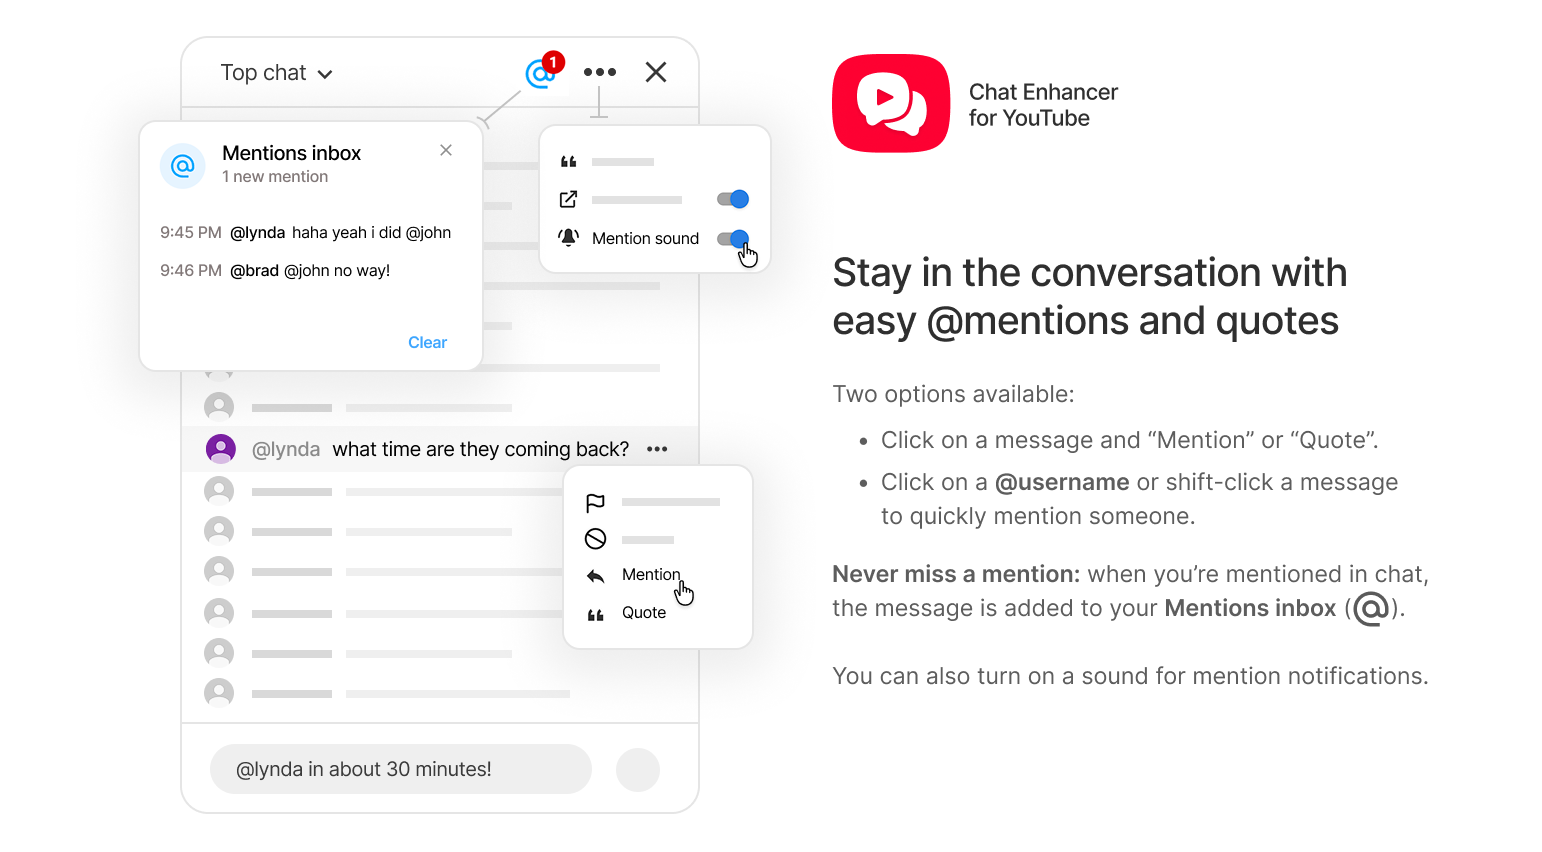
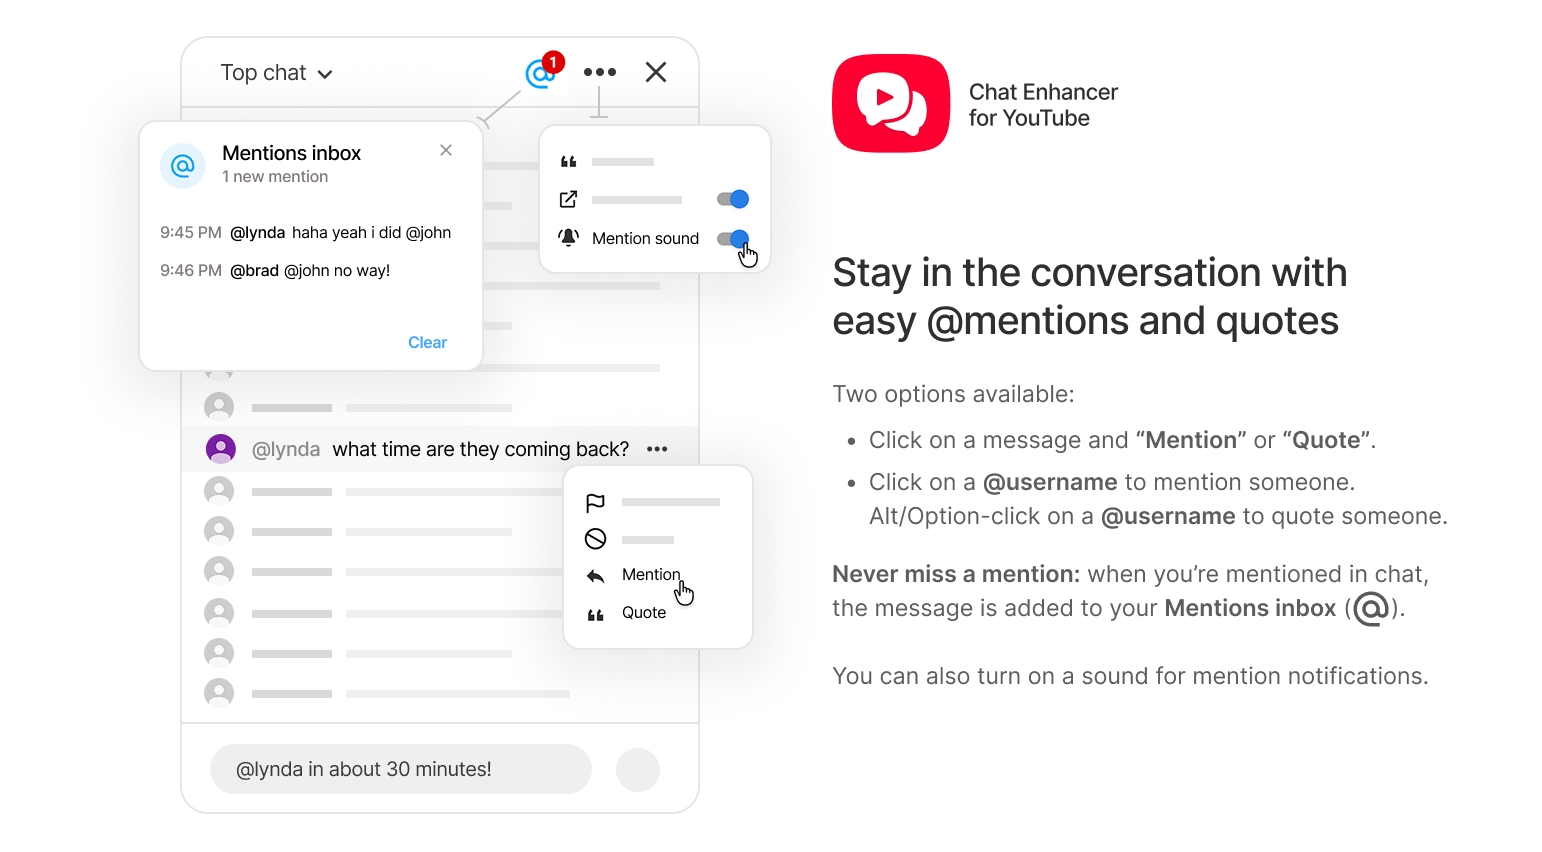
feat: add option-click quote shortcut

Changed region(s): [[0.5603, 0.4883, 0.9339, 0.6408]]

diff --git a/src/features/reply.ts b/src/features/reply.ts
@@ -2,30 +2,15 @@
  * Reply insertion helpers.
  *
  * Mention and Quote insert plain text into YouTube's native chat input.
- * Clicking an author name or shift-clicking a message is also treated as a
- * quick Mention shortcut while normal message clicks remain available for
- * YouTube's own message UI.
+ * Clicking an author name is a quick Mention shortcut. Alt/Option-clicking an
+ * author name quotes that message while normal message clicks remain available
+ * for YouTube's own message UI.
  */
 import { getOptions } from '../shared/state';
 import { cleanText } from '../shared/text';
 import { showToast } from '../shared/toast';
 import { insertIntoChatInput } from '../youtube/chatInput';
 import { getMessageDetails } from '../youtube/messages';
-import { CHAT_MESSAGE_SELECTOR } from '../youtube/selectors';
-
-export function handleShiftClickMention(event: MouseEvent): void {
-  if (!event.shiftKey || event.defaultPrevented) return;
-  if (event.button !== 0) return;
-
-  const target = event.target instanceof Element ? event.target : null;
-  const message = target?.closest<HTMLElement>(CHAT_MESSAGE_SELECTOR);
-  if (!message || !target || shouldIgnoreShiftClickMention(target)) return;
-
-  event.preventDefault();
-  event.stopPropagation();
-  event.stopImmediatePropagation?.();
-  replyToMessage(message, { quote: false });
-}
 
 export function wireAuthorNameMention(message: HTMLElement): void {
   if (message.dataset.ytcqAuthorMentionWired === 'true') return;
@@ -34,14 +19,14 @@ export function wireAuthorNameMention(message: HTMLElement): void {
   const authorName = message.querySelector<HTMLElement>('#author-name');
   if (!authorName) return;
 
-  authorName.title = 'Mention user';
+  authorName.title = 'Mention user. Alt/Option-click to quote.';
   authorName.addEventListener('click', (event) => {
     if (event.defaultPrevented || event.button !== 0) return;
 
     event.preventDefault();
     event.stopPropagation();
     event.stopImmediatePropagation?.();
-    replyToMessage(message, { quote: false });
+    replyToMessage(message, { quote: event.altKey });
   }, true);
 }
 
@@ -95,22 +80,6 @@ function insertMentionText(text: string): void {
   if (!insertIntoChatInput(text)) {
     showToast('Could not find the chat input.');
   }
-}
-
-function shouldIgnoreShiftClickMention(target: Element): boolean {
-  return Boolean(target.closest([
-    'a',
-    'button',
-    'input',
-    'textarea',
-    'select',
-    '[contenteditable]',
-    '#menu',
-    'ytd-menu-popup-renderer',
-    '.ytcq-translation',
-    '.ytcq-replaced-translation-icon',
-    '.ytcq-frequent-emoji-row'
-  ].join(',')));
 }
 
 function truncateForQuote(text: string): string {

diff --git a/src/content/index.ts b/src/content/index.ts
@@ -14,7 +14,7 @@ import { configureSettingsMenu, refreshSettingsMenus } from '../features/menus/s
 import { handlePotentialMentionsInbox, initMentionsInbox, scheduleMentionsInboxButtonWire } from '../features/mentionsInbox';
 import { handlePotentialMention, initMentionSound } from '../features/mentionSound';
 import { wireProfileClick } from '../features/profilePopup';
-import { handleShiftClickMention, wireAuthorNameMention } from '../features/reply';
+import { wireAuthorNameMention } from '../features/reply';
 import {
   clearTranslations,
   getRetroactiveTranslationMessages,
@@ -68,7 +68,6 @@ function boot(): void {
   document.addEventListener('click', handleEmojiPickerClick, true);
   document.addEventListener('pointerdown', handleMessageMenuActivation, true);
   document.addEventListener('click', handleMessageMenuActivation, true);
-  document.addEventListener('click', handleShiftClickMention, true);
   document.addEventListener('keydown', handleMessageMenuActivation, true);
   document.addEventListener('visibilitychange', scheduleVisibleMessageRecovery);
   window.addEventListener('focus', scheduleVisibleMessageRecovery);

diff --git a/README.md b/README.md
@@ -18,7 +18,7 @@ Not affiliated with YouTube or Google.
 ### Replying
 
 - Add `Mention` and `Quote` actions to YouTube's existing message menu.
-- Shift-click a chat message to mention its author.
+- Click an author name to mention them, or Alt/Option-click it to quote that message.
 
 ### Social Context
 